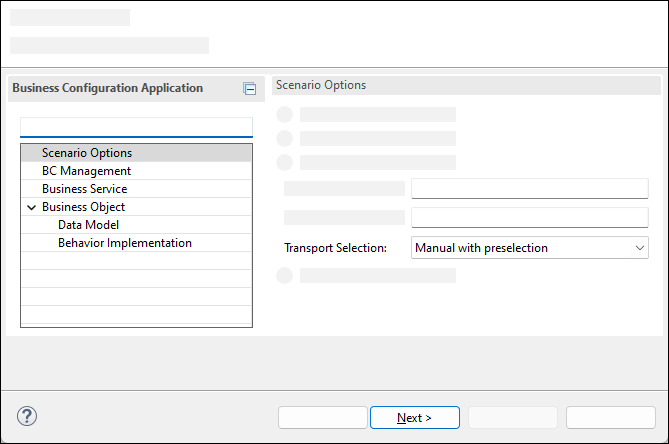
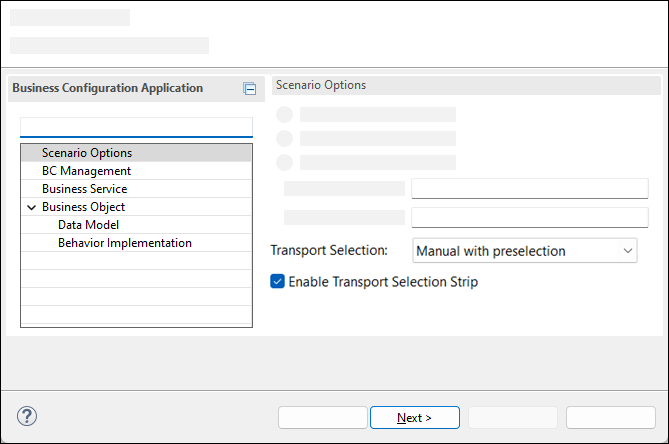
Adjust transport selection

Changed region(s): [[0.3886, 0.527, 0.9567, 0.5856], [0.3886, 0.6149, 0.7175, 0.6734]]

diff --git a/tutorials/abap-environment-business-configuration-object/abap-environment-business-configuration-object.md b/tutorials/abap-environment-business-configuration-object/abap-environment-business-configuration-object.md
@@ -178,7 +178,8 @@ A [**Business Configuration Maintenance Object**](https://help.sap.com/products/
      ![Select package](bc4.png)     
 
   4. The system generates a proposal for all input fields based on the description of the table by following these [naming conventions](https://help.sap.com/docs/abap-cloud/abap-rap/naming-conventions-for-development-objects?version=sap_btp). If you receive an error message stating that a specific object already exists, change the corresponding name in the wizard.
-  **Only if you have an SAP BTP trial account**, change the option **Transport selection** to **`No transport`** as you cannot create any customizing transport requests.
+  Select **`Manual with preselection`** for **Transport Selection** and check the box for **`Enable Transport Selection Strip`**. Note that for configurations to be [adjusted in every client](https://community.sap.com/t5/technology-blog-posts-by-sap/how-to-create-a-rap-bo-to-change-the-content-of-a-customizing-table-in-the/ba-p/13723087) you would select **`No transport`** for **Transport Selection**.
+  **If you have an SAP BTP trial account**, change the option **Transport selection** to **`No transport`** as you cannot create any customizing transport requests.
 
 
       Click **Next >**.
